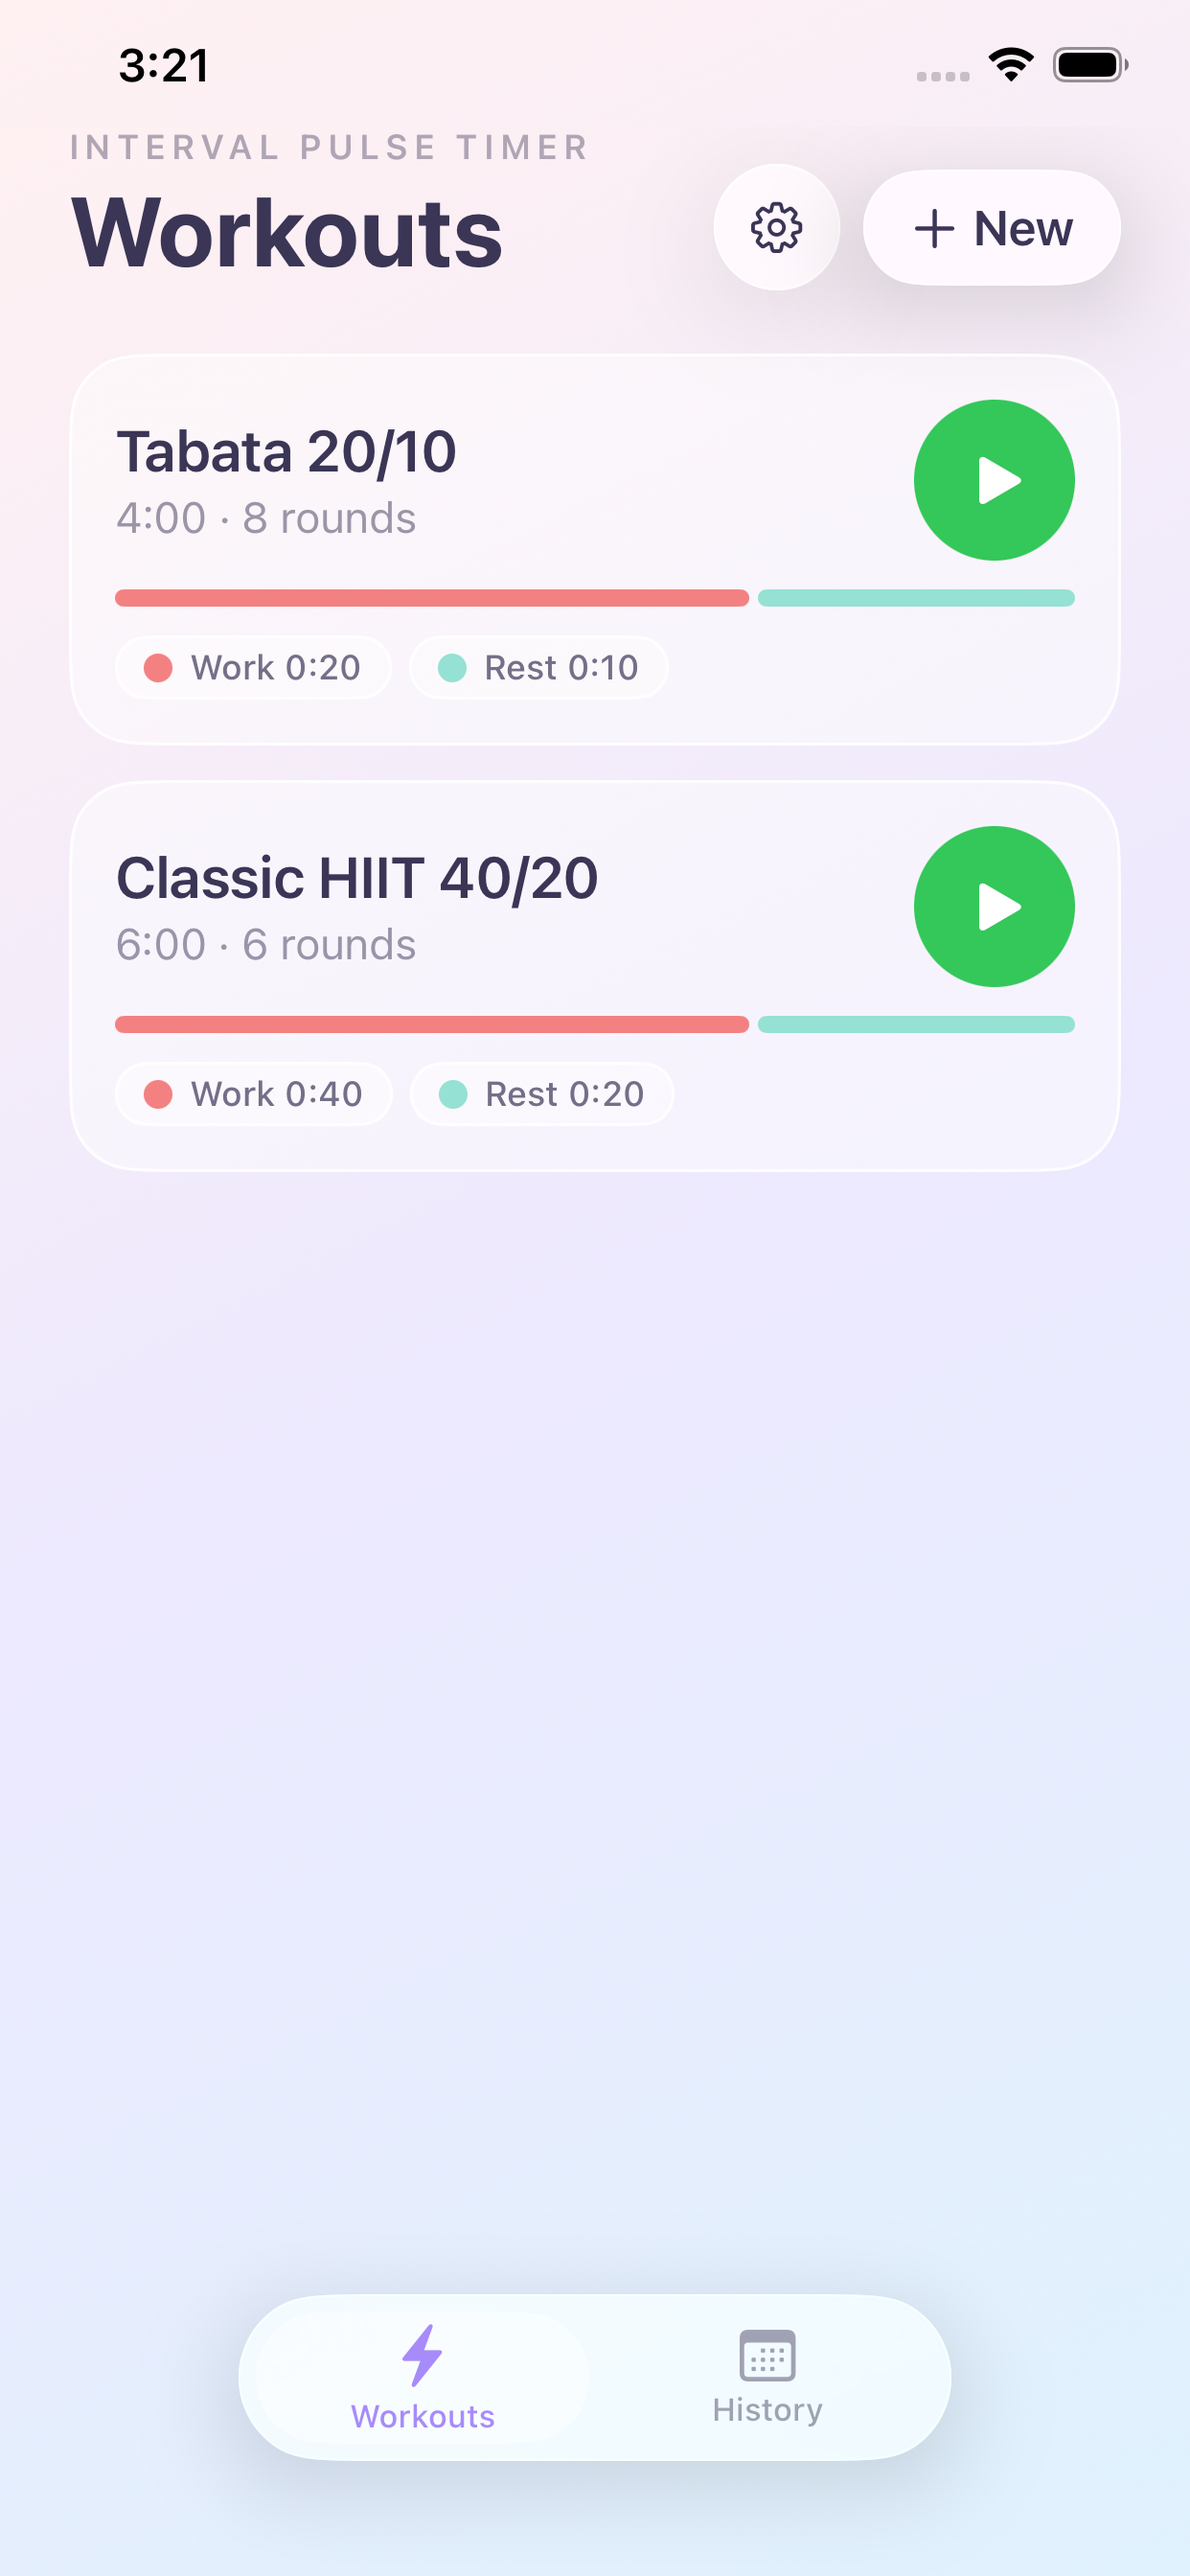
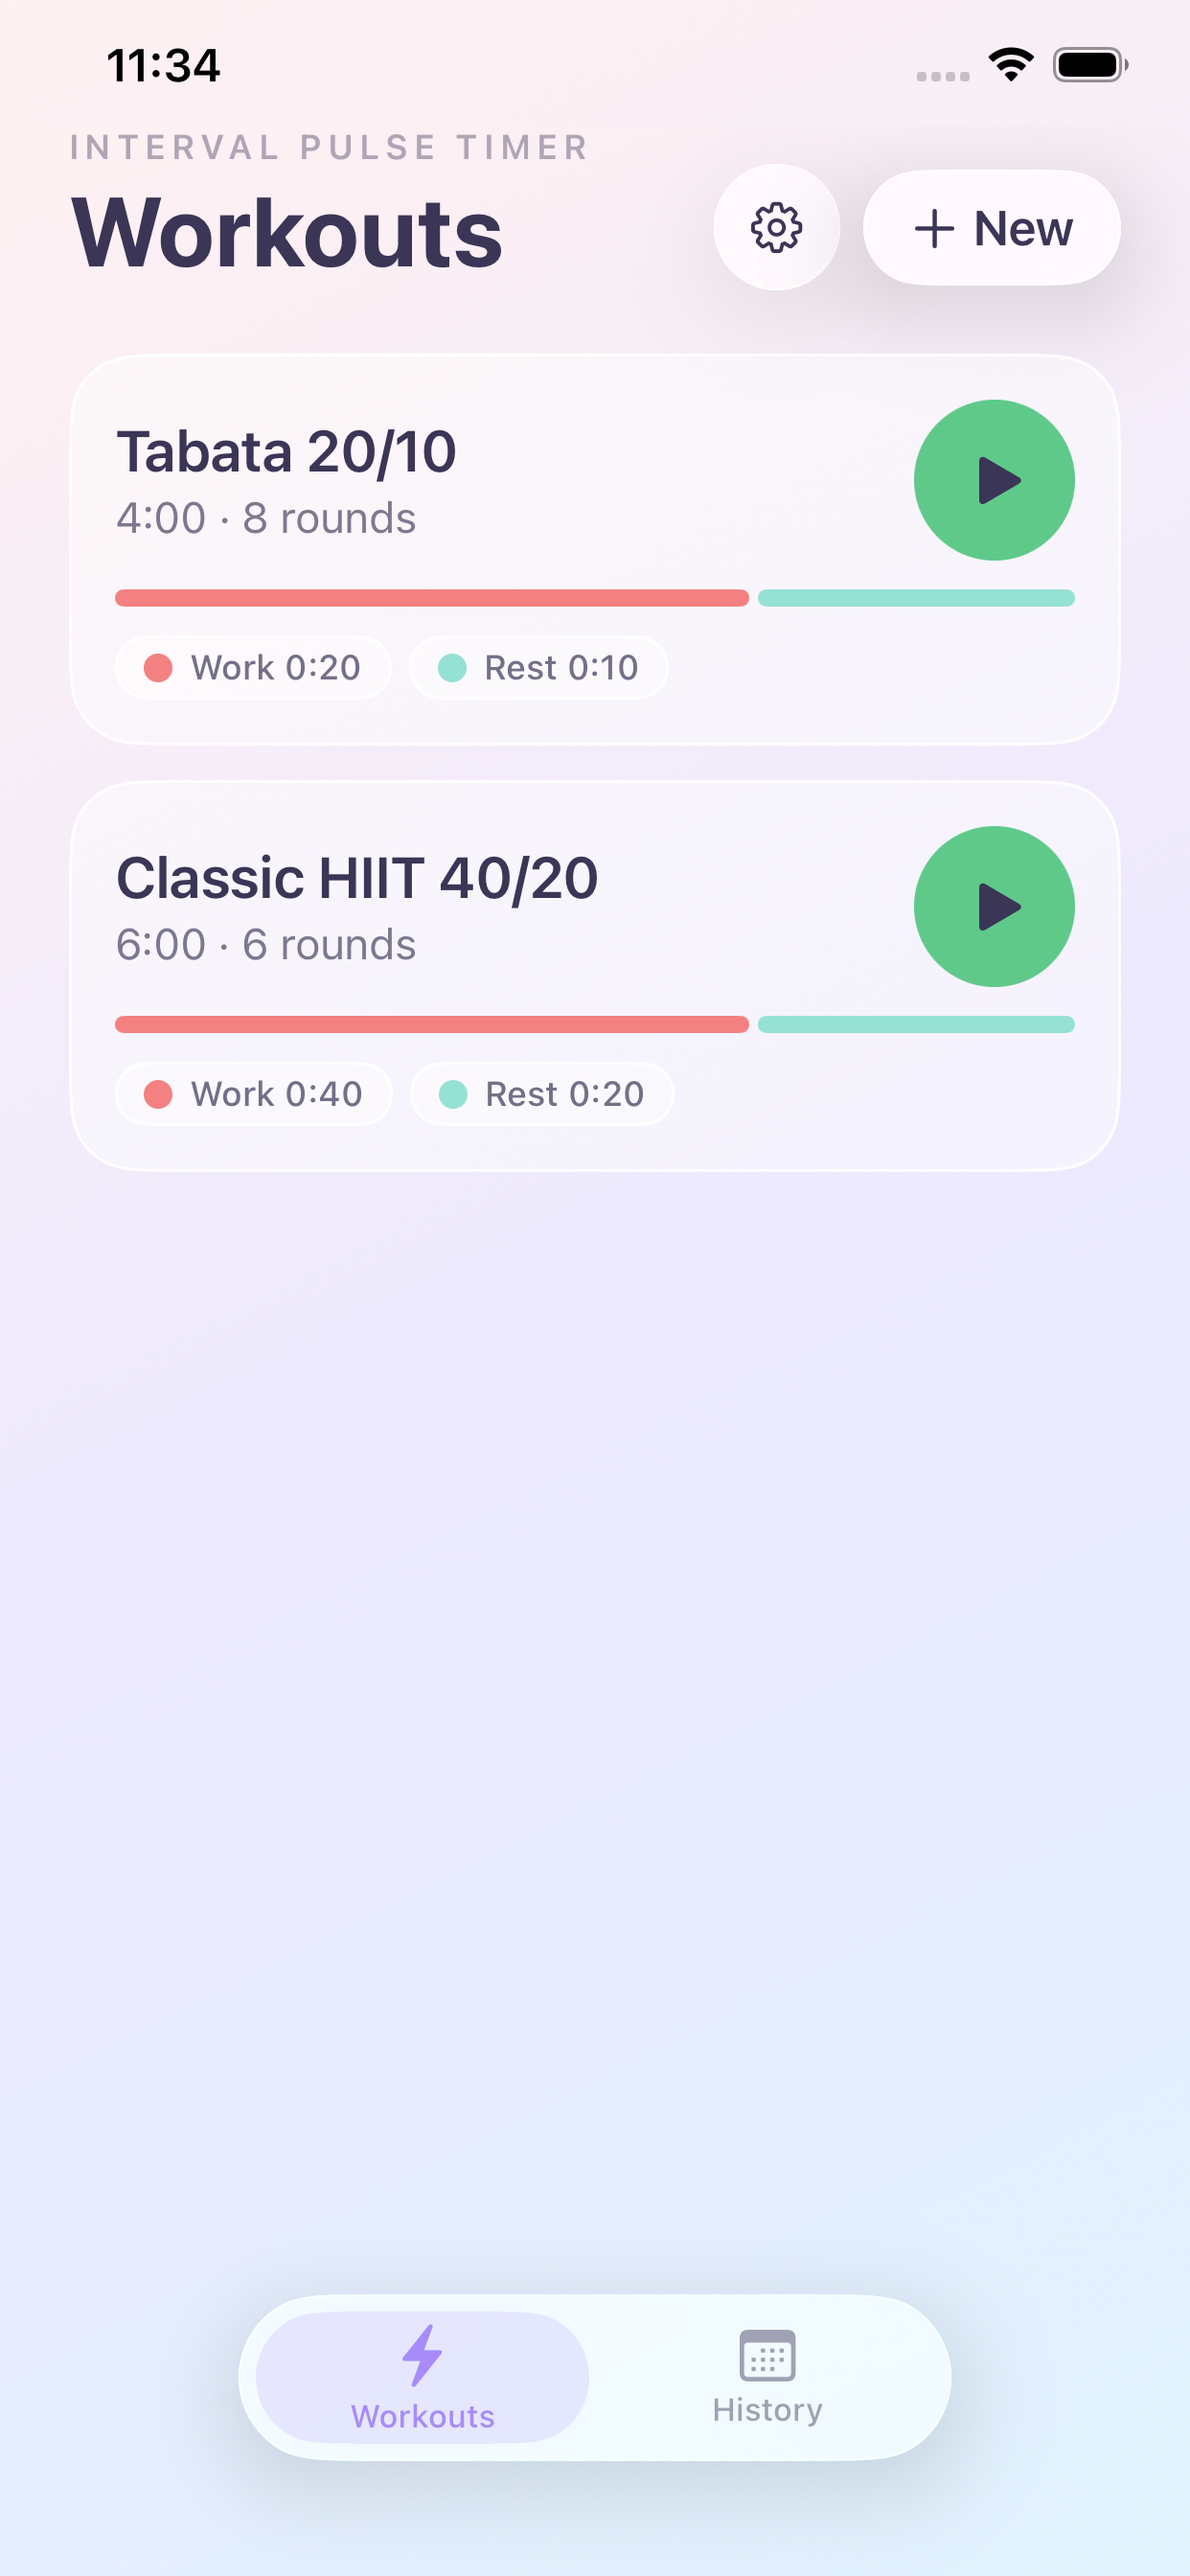
UI polish: mint accent, contrast pass, smooth ring, misc touchups
Unify play button to palette mint (was raw system green), bump low-
contrast text opacities across History/Run/Workouts, drive the run-
screen ring off a frame-rate TimelineView instead of the 100ms engine
tick, move Clear history into the header, tint the streak flame, and
respect Reduce Motion for confetti/pulse. Refresh App Store screenshots.

diff --git a/IntervalTimer/Screens/HistoryScreen.swift b/IntervalTimer/Screens/HistoryScreen.swift
@@ -37,7 +37,6 @@ struct HistoryScreen: View {
                         emptyState(theme).plainRow()
                     } else {
                         sessionSections(theme)
-                        clearButton(theme).plainRow()
                     }
                 }
                 .listStyle(.plain)
@@ -58,19 +57,32 @@ struct HistoryScreen: View {
     }
 
     private func header(_ theme: ThemeColors) -> some View {
-        VStack(alignment: .leading, spacing: 2) {
-            Text("INTERVAL PULSE TIMER").font(.caption.weight(.semibold)).tracking(2)
-                .foregroundStyle(theme.ink.opacity(0.4))
-            Text("History").font(.system(size: 34, weight: .bold)).foregroundStyle(theme.ink)
+        HStack(alignment: .bottom) {
+            VStack(alignment: .leading, spacing: 2) {
+                Text("INTERVAL PULSE TIMER").font(.caption.weight(.semibold)).tracking(2)
+                    .foregroundStyle(theme.ink.opacity(0.4))
+                Text("History").font(.system(size: 34, weight: .bold)).foregroundStyle(theme.ink)
+            }
+            Spacer()
+            if !sessions.isEmpty {
+                Button { showClearConfirm = true } label: {
+                    Image(systemName: "trash")
+                        .font(.system(size: 17))
+                        .foregroundStyle(theme.ink)
+                        .frame(width: 44, height: 44)
+                        .glassChrome(radius: 22)
+                }
+                .buttonStyle(.pressableScale)
+            }
         }
-        .frame(maxWidth: .infinity, alignment: .leading)
         .padding(.horizontal, 24).padding(.bottom, 12)
     }
 
     private func statsGrid(streak: Int, thisWeek: Int, total: Int, theme: ThemeColors) -> some View {
         VStack(spacing: 12) {
             HStack(spacing: 12) {
-                stat("\(streak)", "Day streak", "flame", theme)
+                stat("\(streak)", "Day streak", "flame", theme,
+                     iconTint: streak >= 2 ? Color(hex: "#FFB27A") : nil)
                 stat("\(thisWeek)", "This week", "calendar", theme)
             }
             HStack(spacing: 12) {
@@ -80,14 +92,15 @@ struct HistoryScreen: View {
         }
     }
 
-    private func stat(_ value: String, _ label: String, _ icon: String, _ theme: ThemeColors) -> some View {
+    private func stat(_ value: String, _ label: String, _ icon: String, _ theme: ThemeColors,
+                      iconTint: Color? = nil) -> some View {
         VStack(alignment: .leading, spacing: 2) {
             HStack(alignment: .top) {
                 Text(value).font(.title2.weight(.bold)).foregroundStyle(theme.ink)
                 Spacer()
-                Image(systemName: icon).font(.system(size: 14)).foregroundStyle(theme.inkMuted)
+                Image(systemName: icon).font(.system(size: 14)).foregroundStyle(iconTint ?? theme.inkMuted)
             }
-            Text(label).font(.caption.weight(.medium)).foregroundStyle(theme.ink.opacity(0.5))
+            Text(label).font(.caption.weight(.medium)).foregroundStyle(theme.ink.opacity(0.6))
         }
         .padding(16).frame(maxWidth: .infinity, alignment: .leading).panel()
     }
@@ -135,7 +148,7 @@ struct HistoryScreen: View {
             VStack(alignment: .leading, spacing: 2) {
                 Text(session.workoutName).font(.body.weight(.semibold)).foregroundStyle(theme.ink)
                 Text(session.completedAt.formatted(date: .omitted, time: .shortened))
-                    .font(.caption).foregroundStyle(theme.ink.opacity(0.4))
+                    .font(.caption).foregroundStyle(theme.ink.opacity(0.55))
             }
             Spacer()
             Text(TimerEngineMath.formatSeconds(session.totalSeconds))
@@ -156,14 +169,6 @@ struct HistoryScreen: View {
                 .font(.subheadline).foregroundStyle(theme.ink.opacity(0.4)).multilineTextAlignment(.center)
         }
         .padding(32).frame(maxWidth: .infinity).panel().padding(.top, 8)
-    }
-
-    private func clearButton(_ theme: ThemeColors) -> some View {
-        Button { showClearConfirm = true } label: {
-            Text("Clear history").font(.subheadline.weight(.semibold)).foregroundStyle(.pink)
-                .frame(maxWidth: .infinity)
-        }
-        .buttonStyle(.plain).padding(.top, 16)
     }
 
     // MARK: helpers

diff --git a/IntervalTimer/Screens/RunScreen.swift b/IntervalTimer/Screens/RunScreen.swift
@@ -9,6 +9,7 @@ struct RunScreen: View {
     @Environment(\.dismiss) private var dismiss
     @Environment(\.modelContext) private var context
     @Environment(\.colorScheme) private var scheme
+    @Environment(\.accessibilityReduceMotion) private var reduceMotion
     @Environment(AppSettings.self) private var settings
 
     @State private var engine: TimerEngine
@@ -60,7 +61,7 @@ struct RunScreen: View {
             UIApplication.shared.isIdleTimerDisabled = false
         }
         .onChange(of: engine.remaining) { _, new in
-            if engine.phase == .running, new > 0, new <= 3 {
+            if !reduceMotion, engine.phase == .running, new > 0, new <= 3 {
                 pulse = 1.08
                 withAnimation(.easeOut(duration: 0.34)) { pulse = 1 }
             }
@@ -103,24 +104,30 @@ struct RunScreen: View {
         let next = segments.indices.contains(engine.index + 1) ? segments[engine.index + 1] : nil
         return VStack(spacing: 0) {
             Spacer()
-            ProgressRing(size: 320, strokeWidth: 16, progress: engine.fraction,
-                         color: Color(hex: segment?.color ?? Palette.preroll)) {
-                VStack(spacing: 6) {
-                    Text(ringTopLabel(segment))
-                        .font(.caption.weight(.semibold)).tracking(2).textCase(.uppercase)
-                        .foregroundStyle(theme.ink.opacity(0.4))
-                    Text(TimerEngineMath.formatSeconds(engine.remaining))
-                        .font(.system(size: 72, weight: .bold)).monospacedDigit()
-                        .foregroundStyle(theme.ink)
-                        .scaleEffect(pulse)
-                    Text(segment?.label ?? "")
-                        .font(.title3.weight(.semibold)).foregroundStyle(theme.ink.opacity(0.6))
-                }
+            TimelineView(.animation(minimumInterval: 1.0 / 60, paused: paused || done)) { _ in
+                ring(segment, theme)
             }
             nextPill(next, theme).padding(.top, 24)
             Spacer()
             progressBar(theme).padding(.bottom, 24)
             controls(theme)
+        }
+    }
+
+    private func ring(_ segment: Segment?, _ theme: ThemeColors) -> some View {
+        ProgressRing(size: 320, strokeWidth: 16, progress: engine.fractionNow(),
+                     color: Color(hex: segment?.color ?? Palette.preroll)) {
+            VStack(spacing: 6) {
+                Text(ringTopLabel(segment))
+                    .font(.caption.weight(.semibold)).tracking(2).textCase(.uppercase)
+                    .foregroundStyle(theme.ink.opacity(0.5))
+                Text(TimerEngineMath.formatSeconds(engine.remaining))
+                    .font(.system(size: 72, weight: .bold)).monospacedDigit()
+                    .foregroundStyle(theme.ink)
+                    .scaleEffect(pulse)
+                Text(segment?.label ?? "")
+                    .font(.title3.weight(.semibold)).foregroundStyle(theme.ink.opacity(0.6))
+            }
         }
     }
 
@@ -164,7 +171,7 @@ struct RunScreen: View {
             }
             .frame(height: 10)
             Text("\(TimerEngineMath.formatSeconds(engine.totalRemaining)) left")
-                .font(.caption.weight(.medium)).foregroundStyle(theme.ink.opacity(0.4))
+                .font(.caption.weight(.medium)).foregroundStyle(theme.ink.opacity(0.55))
         }
     }
 

diff --git a/IntervalTimer/Components/MonthCalendar.swift b/IntervalTimer/Components/MonthCalendar.swift
@@ -45,7 +45,7 @@ struct MonthCalendar: View {
                 ForEach(Array(weekdays.enumerated()), id: \.offset) { _, label in
                     Text(label)
                         .font(.caption.weight(.semibold))
-                        .foregroundStyle(theme.ink.opacity(0.3))
+                        .foregroundStyle(theme.ink.opacity(0.45))
                         .frame(maxWidth: .infinity)
                 }
             }
@@ -80,7 +80,7 @@ struct MonthCalendar: View {
             } label: {
                 Text("\(day)")
                     .font(.subheadline.weight(marked ? .bold : .medium))
-                    .foregroundStyle(marked ? theme.ink : (future ? theme.ink.opacity(0.25) : theme.ink.opacity(0.6)))
+                    .foregroundStyle(marked ? theme.ink : (future ? theme.ink.opacity(0.4) : theme.ink.opacity(0.75)))
                     .frame(width: 36, height: 36)
                     .background {
                         if selected {

diff --git a/IntervalTimer/Screens/WorkoutsScreen.swift b/IntervalTimer/Screens/WorkoutsScreen.swift
@@ -139,13 +139,13 @@ private struct WorkoutCard: View {
                         .foregroundStyle(theme.ink)
                     Text("\(TimerEngineMath.formatSeconds(total)) · \(workout.repeats) \(workout.repeats == 1 ? "round" : "rounds")")
                         .font(.subheadline)
-                        .foregroundStyle(theme.ink.opacity(0.5))
+                        .foregroundStyle(theme.ink.opacity(0.65))
                 }
                 Spacer()
                 Button(action: onPlay) {
                     Image(systemName: "play.fill")
                         .font(.system(size: 20))
-                        .foregroundStyle(.white)
+                        .foregroundStyle(Palette.isLight(Palette.start) ? Color(hex: Palette.ink) : .white)
                         .offset(x: 1)
                         .frame(width: 56, height: 56)
                         .background(Circle().fill(Color(hex: Palette.start)))

diff --git a/IntervalTimer/Engine/TimerEngine.swift b/IntervalTimer/Engine/TimerEngine.swift
@@ -100,6 +100,16 @@ final class TimerEngine {
         totalRemaining = max(0, Double(total) - elapsed)
     }
 
+    /// Frame-rate read for the ring: current segment fraction computed straight
+    /// from the timestamp math, independent of the 100ms ticker. Pure read — no
+    /// state writes, so it's safe to call from a TimelineView every frame.
+    func fractionNow() -> Double {
+        guard phase == .running else { return fraction }
+        let pos = TimerEngineMath.segmentAt(segments, elapsed: elapsedNow())
+        if pos.done { return 0 }
+        return pos.remaining / Double(segments[pos.index].seconds)
+    }
+
     private func setElapsed(_ seconds: Double) {
         let pausedMs = pausedAccum + (pausedAt.map { Date().timeIntervalSince($0) } ?? 0)
         startedAt = Date().addingTimeInterval(-pausedMs - seconds)

diff --git a/IntervalTimer/Components/Confetti.swift b/IntervalTimer/Components/Confetti.swift
@@ -20,6 +20,7 @@ struct Confetti: View {
     private let maxWave = 2 * 0.12
 
     @State private var finished = false
+    @Environment(\.accessibilityReduceMotion) private var reduceMotion
 
     init(count: Int = 90) {
         let colors = Palette.intervalColors.map { Color(hex: $0) }
@@ -35,6 +36,14 @@ struct Confetti: View {
     }
 
     var body: some View {
+        if reduceMotion {
+            Color.clear
+        } else {
+            burst
+        }
+    }
+
+    private var burst: some View {
         TimelineView(.animation(minimumInterval: nil, paused: finished)) { timeline in
             let elapsed = timeline.date.timeIntervalSince(start)
             Canvas { ctx, size in

diff --git a/IntervalTimer/Theme/Palette.swift b/IntervalTimer/Theme/Palette.swift
@@ -24,7 +24,7 @@ enum Palette {
     static let cooldown = "#5FB8E0"
     static let ink = "#3B3556"
     static let primary = "#A78BFA"
-    static let start = "#34C759" // "Go" green — Start/play button and icon triangle
+    static let start = "#5FC98A" // "Go" mint — Start/play button, tuned to the interval palette
 
     /// Perceived-luminance check for picking a readable foreground on a swatch.
     static func isLight(_ hex: String) -> Bool {

diff --git a/IntervalTimer/Components/ProgressRing.swift b/IntervalTimer/Components/ProgressRing.swift
@@ -1,7 +1,8 @@
 import SwiftUI
 
 /// Circular ring whose stroke depletes as `progress` (fraction remaining, 1 = full)
-/// drops. Animates with a short linear timing so 100ms ticks read as continuous.
+/// drops. The short linear timing smooths discrete updates (skips, 100ms ticks);
+/// frame-rate callers (TimelineView) barely engage it.
 struct ProgressRing<Content: View>: View {
     var size: CGFloat
     var strokeWidth: CGFloat

diff --git a/IntervalTimer/Screens/RootTabView.swift b/IntervalTimer/Screens/RootTabView.swift
@@ -40,7 +40,7 @@ struct RootTabView: View {
             .foregroundStyle(active ? Color(hex: Palette.primary) : theme.inkMuted)
             .frame(width: 116, height: 46)
             .background {
-                if active { Capsule().fill(theme.glassFill) }
+                if active { Capsule().fill(Color(hex: Palette.primary).opacity(0.18)) }
             }
         }
         .buttonStyle(.plain)
